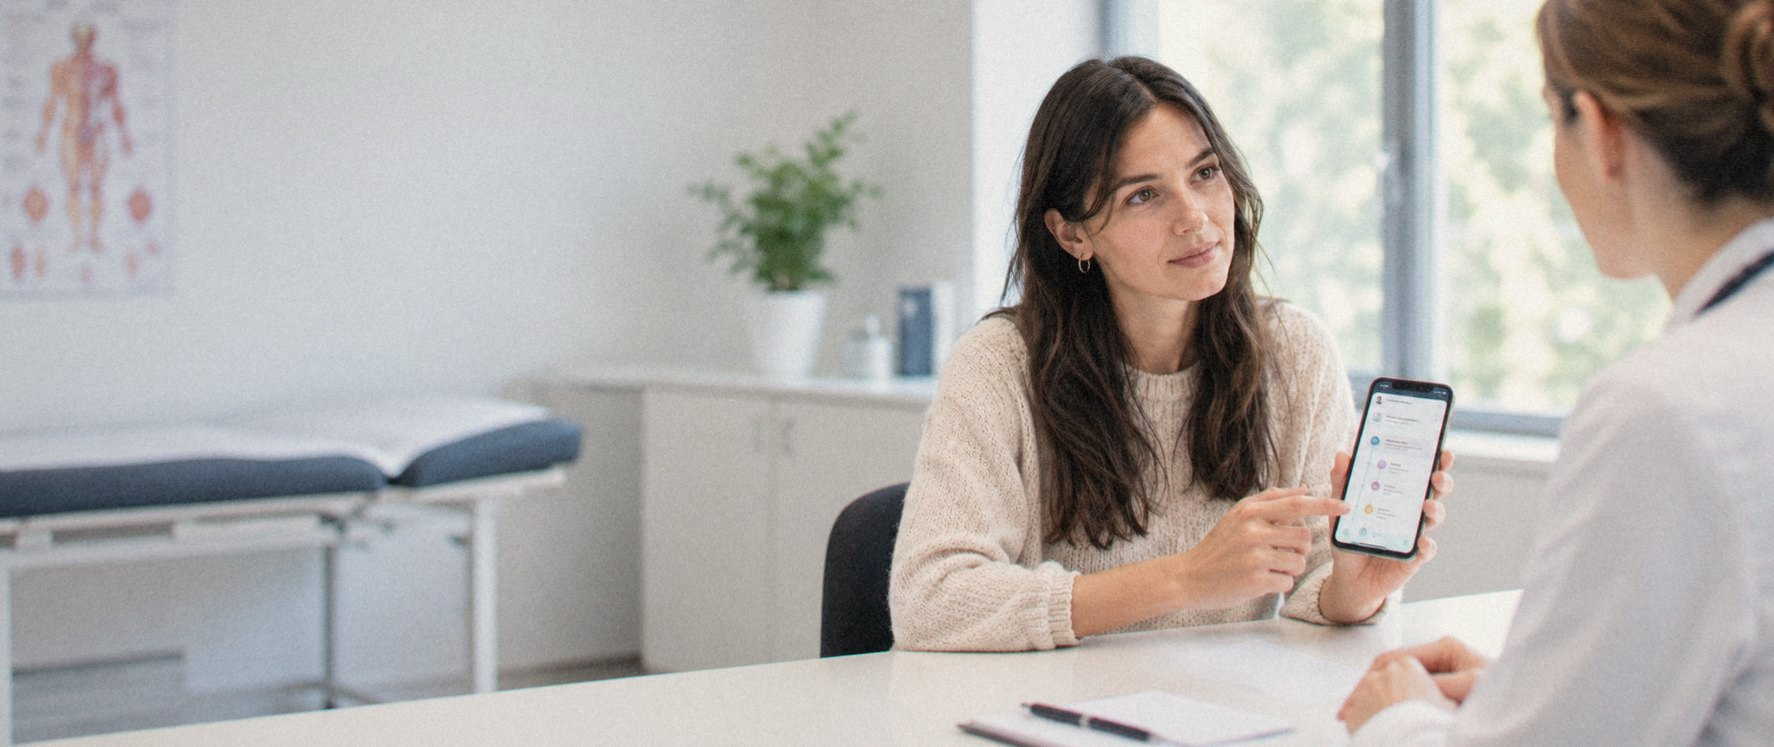
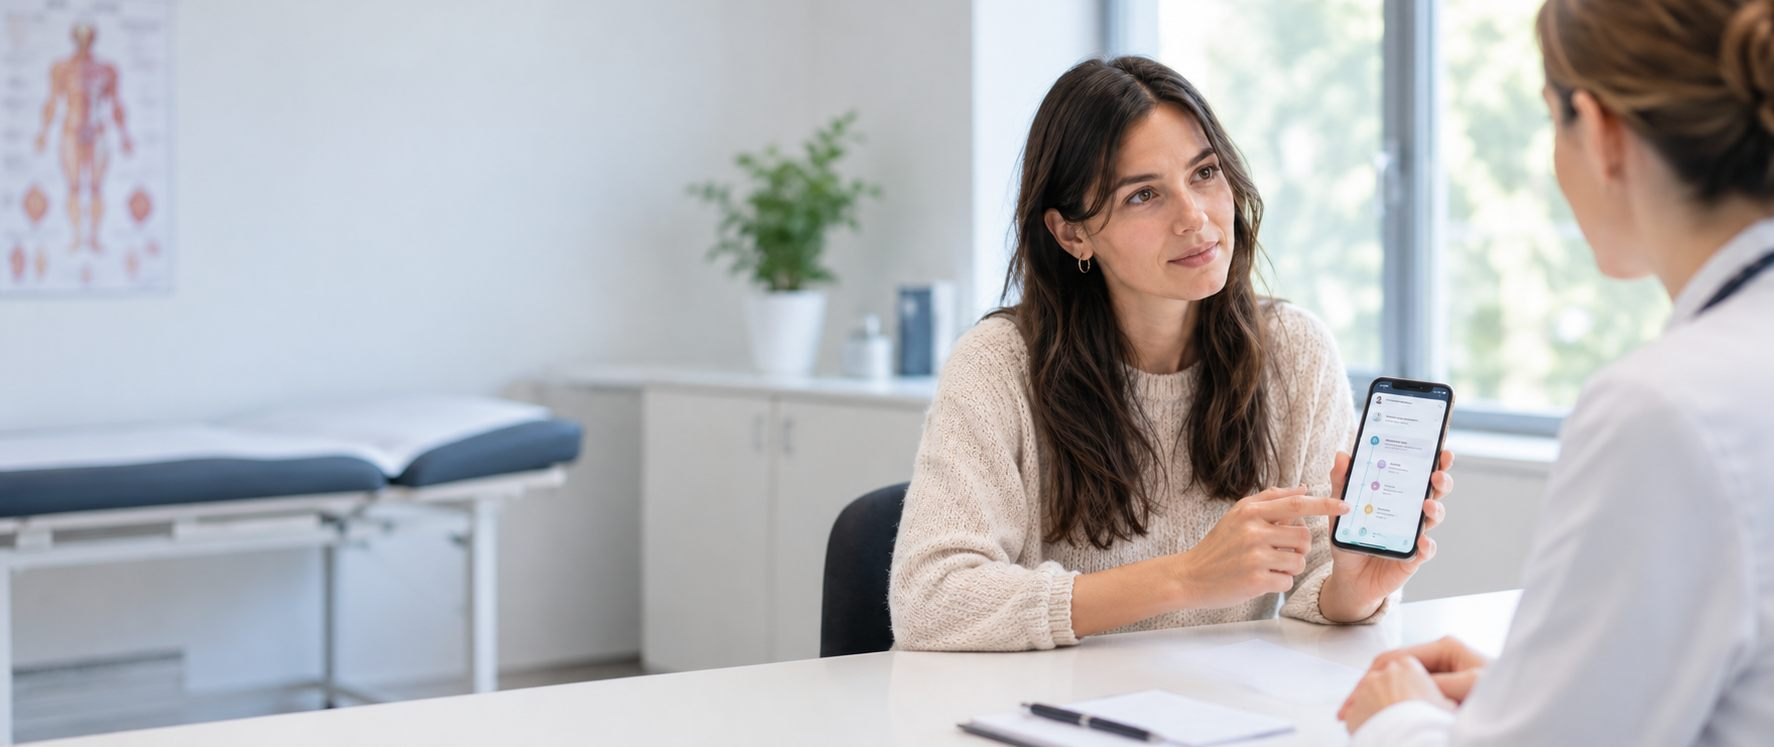
Hero A/B: Überschriften sagen sofort, worum es geht; Foto wieder im Original
A: "Seit Monaten Beschwerden. Und beim Arzt heißt es: alles unauffällig?"
B: "Eine schwere Diagnose. Und vom Arztgespräch bleibt kaum etwas hängen?"
Beide nennen Situation und Arztkontext ausdrücklich, statt nur die Emotion.
Das Hero-Foto ist wieder das Original (Foto-Look-Bearbeitung zurückgenommen).

Claude-Session: https://claude.ai/code/session_016HgUr6Tt92mriYDYhJXBcp

diff --git a/index.html b/index.html
@@ -158,8 +158,8 @@ Leistungen
 
           <h1 id="hero-heading">
             <span data-audience-content="patient">
-              <span data-variant-content="a">Unauffällige Werte. Und trotzdem geht es dir schlecht?</span>
-              <span data-variant-content="b">Die Diagnose fällt. Und alles danach rauscht an dir vorbei?</span>
+              <span data-variant-content="a">Seit Monaten Beschwerden. Und beim Arzt heißt es: alles unauffällig?</span>
+              <span data-variant-content="b">Eine schwere Diagnose. Und vom Arztgespräch bleibt kaum etwas hängen?</span>
             </span>
             <span data-audience-content="aerzte">
               <span data-variant-content="a">Sie wollten zuhören. Stattdessen suchen Sie.</span>
